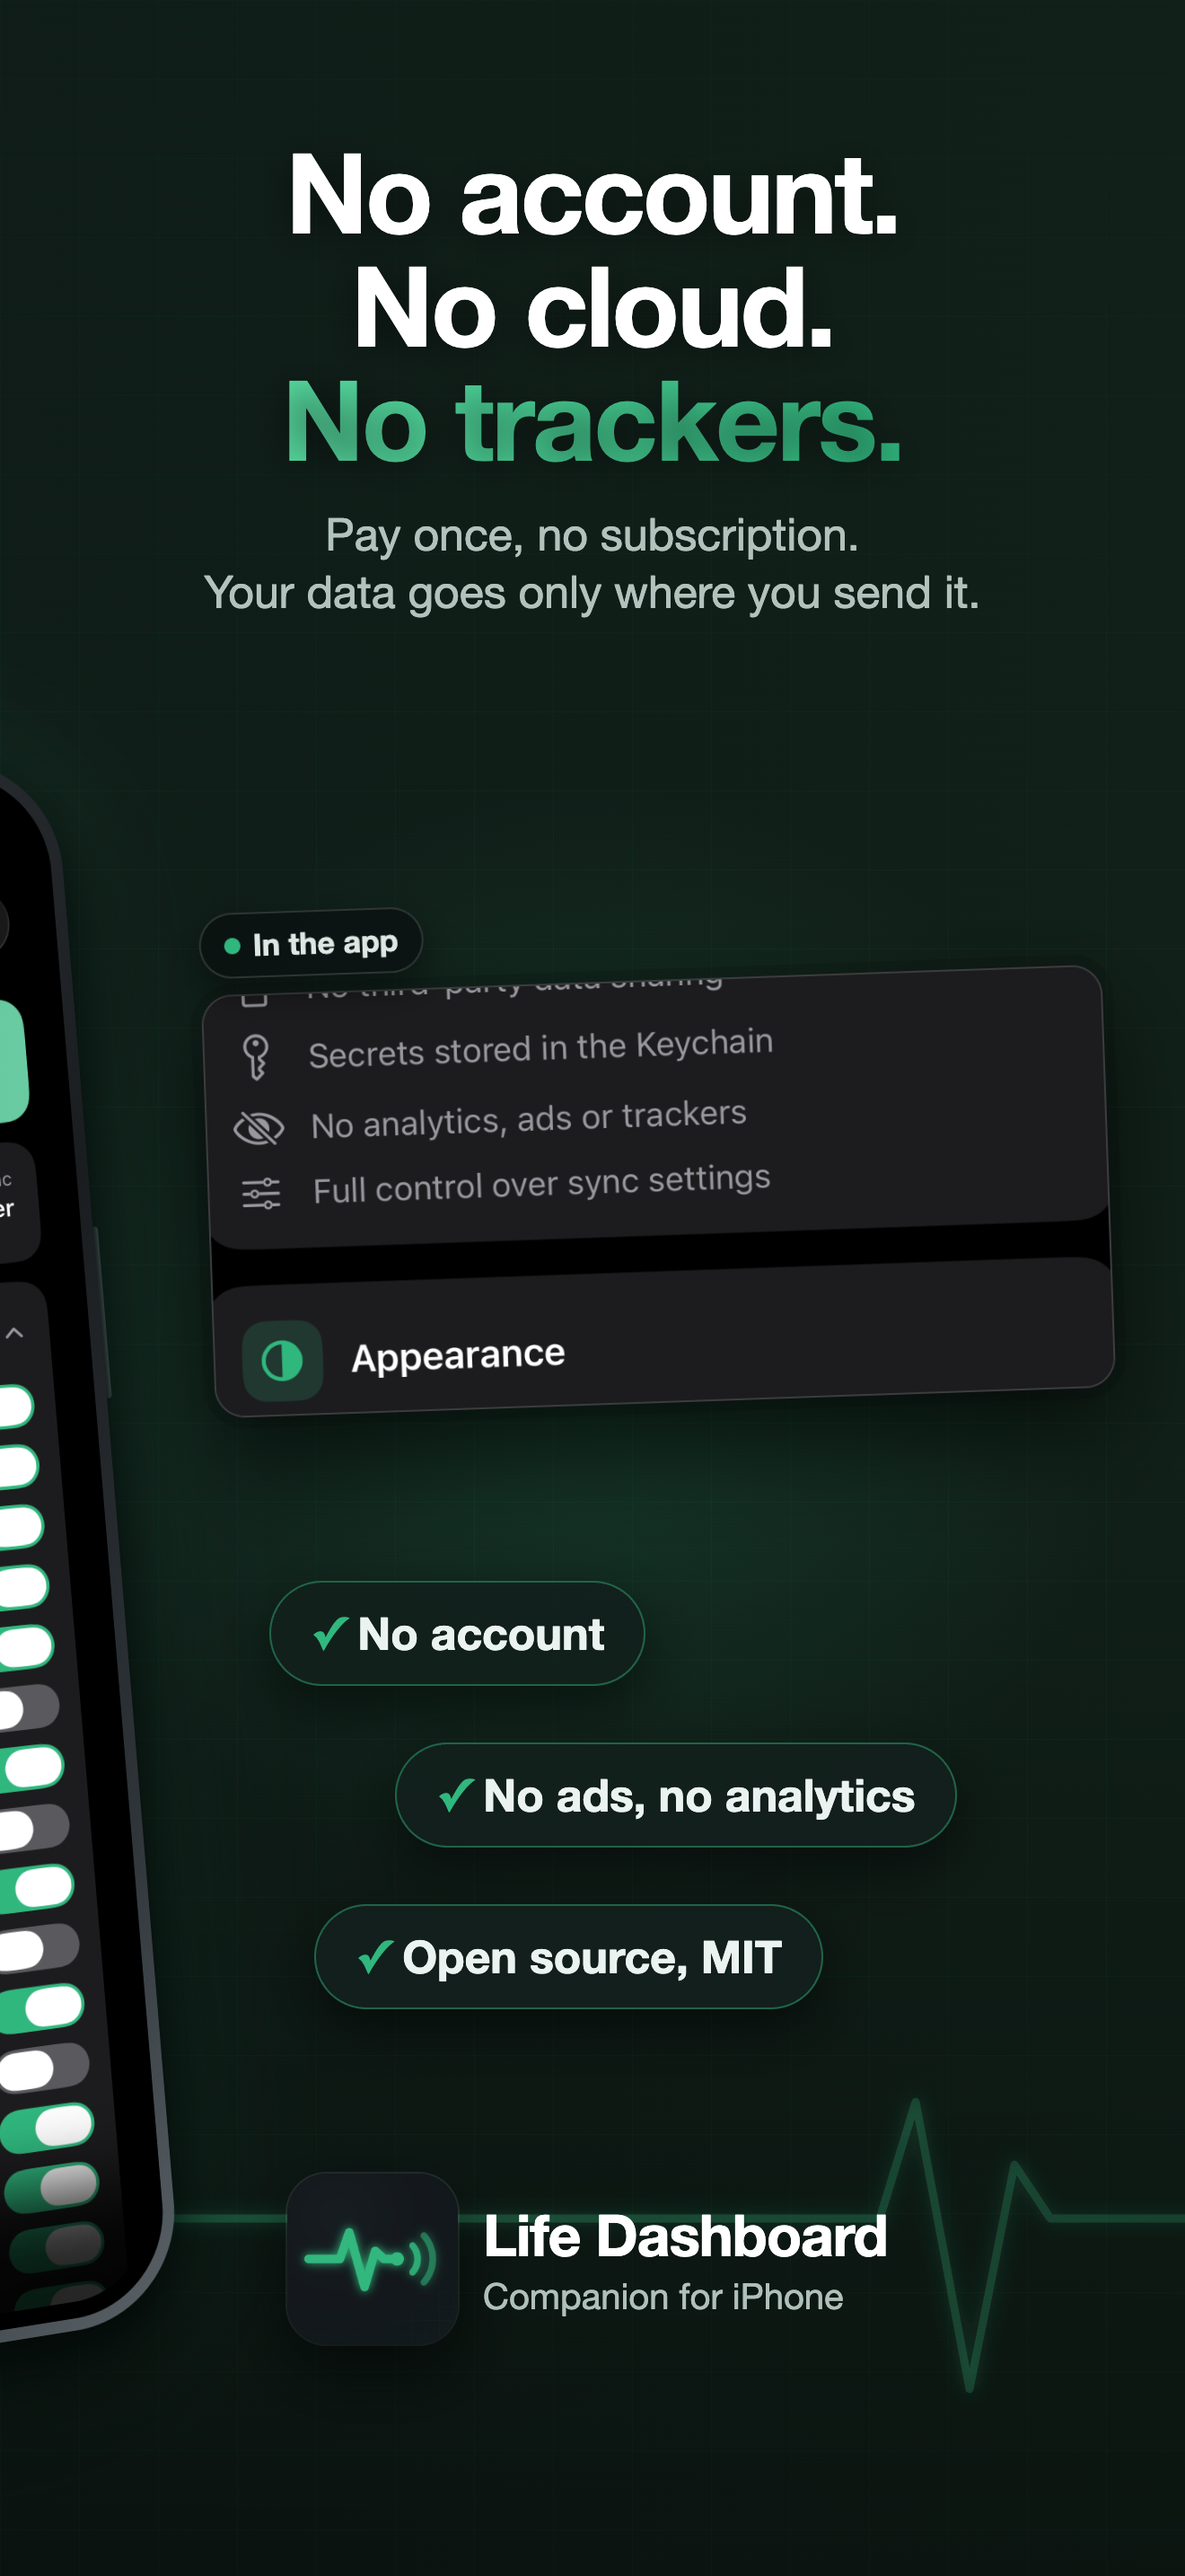
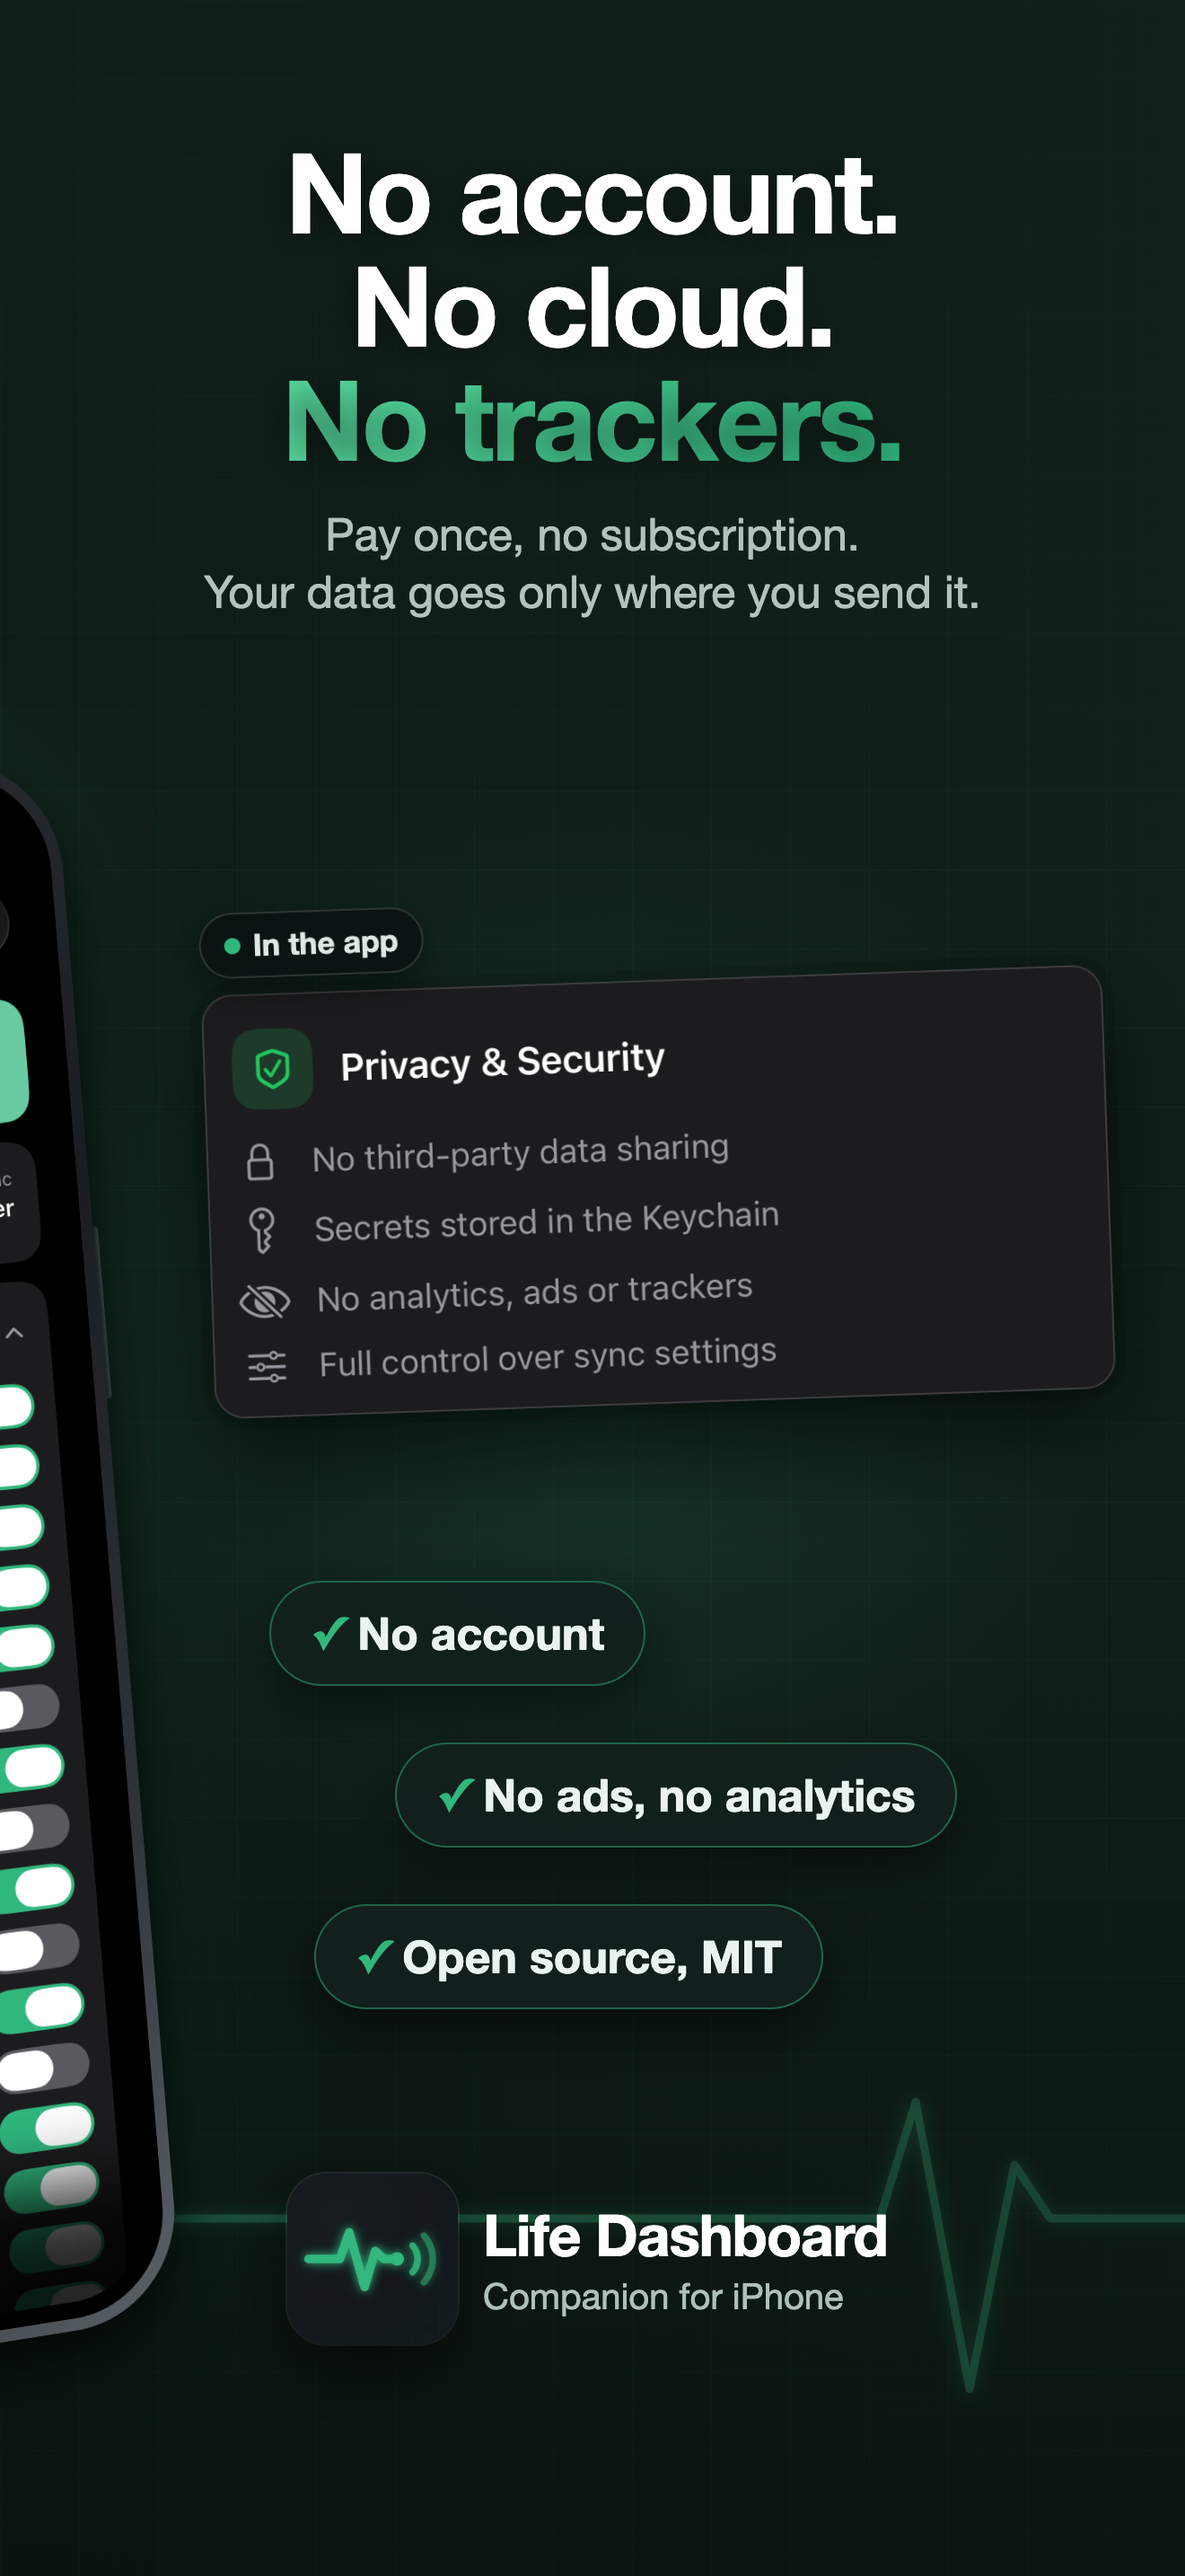
Store screenshots in Dutch and German (P1-29), the English privacy card crop fixed, and smaller renders in git (#98)

Changed region(s): [[0.1553, 0.3724, 0.9318, 0.5586]]

diff --git a/docs/brand/app-store/panorama.html b/docs/brand/app-store/panorama.html
@@ -4,6 +4,10 @@
   panels, 7920x2868, that docs/brand/app-store/render.sh renders whole (panorama-en.png) and
   per panel (en-1.png to en-6.png, panorama.html?panel=1 to ?panel=6).
 
+  ?lang=nl and ?lang=de render the Dutch and German set (nl-1.png, de-1.png and so on) from
+  raw/nl/ and raw/de/, with the captions and labels from TEXT below; English is the default.
+  The Home Assistant cards stay as they are: they come from the integration's English docs.
+
   One continuous background, a heartbeat line that runs through all six panels, and phones
   that lean over the edge into the next panel, so the row reads as one picture when swiping.
 
@@ -159,11 +163,84 @@
 </div>
 
 <script>
-const W = 1320, H = 2868, RAW = "raw/", HA = "ha/";
-// Rows and cards in the captures, [x, y, w, h] in capture pixels.
-const LOGROW_BACKFILL = [52, 1488, 1216, 176];   // logs.png: the year of backfill, delivered
-const LOGROW_MQTT = [52, 1668, 1216, 176];       // logs.png: an MQTT publish
-const PRIVACY_CARD = [60, 930, 1200, 560];       // about-privacy.png: Privacy & Security
+const params = new URLSearchParams(location.search);
+const LANG = ["nl", "de"].includes(params.get("lang")) ? params.get("lang") : "en";
+document.documentElement.lang = LANG;
+const W = 1320, H = 2868, RAW = LANG === "en" ? "raw/" : `raw/${LANG}/`, HA = "ha/";
+// Rows and cards in the captures, [x, y, w, h] in capture pixels. The rows move with the
+// language: in German the backfill row is taller, its badge wraps under the record count.
+const RECTS = {
+  en: {
+    LOGROW_BACKFILL: [52, 1488, 1216, 176],   // logs.png: the year of backfill, delivered
+    LOGROW_MQTT: [52, 1668, 1216, 176],       // logs.png: an MQTT publish
+    PRIVACY_CARD: [60, 698, 1200, 562],       // about-privacy.png: Privacy & Security (below Questions since 1.10.0)
+  },
+  nl: {
+    LOGROW_BACKFILL: [52, 1488, 1216, 176],
+    LOGROW_MQTT: [52, 1668, 1216, 176],
+    PRIVACY_CARD: [60, 618, 1200, 562],
+  },
+  de: {
+    LOGROW_BACKFILL: [52, 1488, 1216, 256],
+    LOGROW_MQTT: [52, 1749, 1216, 176],
+    PRIVACY_CARD: [60, 618, 1200, 562],
+  },
+};
+const { LOGROW_BACKFILL, LOGROW_MQTT, PRIVACY_CARD } = RECTS[LANG];
+
+// Every word on the panels, per language. Dutch says "je", German "du"; the app's own terms
+// from docs/localization.md (Apple Gezondheid, Aanvullen, Nachtragen, Datensätze).
+const TEXT = {
+  en: {
+    cap1: [`Your health data,<br><em>in Home Assistant</em>`, `Or on your own server, over MQTT or a webhook.`],
+    cap2: [`Pair with<br><em>one QR code</em>`, `Scan the code from the Life Dashboard integration. No account, no YAML.`],
+    cap3: [`All your history<br><em>in one go</em>`, `Backfill from 30 days to everything Apple Health has. In Home Assistant, each day lands on its own date.`],
+    backfill: "Backfill, all history",
+    cap4: [`Webhooks, signed.<br><em>MQTT, built in.</em>`, `Every address its own signing secret. Over MQTT, sensors set themselves up.`],
+    signed: "Signed",
+    cap5: [`Works with what<br><em>you already track</em>`, `Apple Watch, iPhone and the apps that write to the Health app.`],
+    types: "data types",
+    chips: ["Steps", "Sleep stages", "Heart rate &amp; HRV", "Workouts", "Weight", "Blood pressure", "VO2 max"],
+    cap6: [`No account.<br>No cloud.<br><em>No trackers.</em>`, `Pay once, no subscription.<br>Your data goes only where you send it.`],
+    inApp: "In the app",
+    pills: ["No account", "No ads, no analytics", "Open source, MIT"],
+    companion: "Companion for iPhone",
+  },
+  nl: {
+    cap1: [`Je gezondheidsdata<br><em>in Home Assistant</em>`, `Of op je eigen server, via MQTT of een webhook.`, 112],
+    cap2: [`Koppelen met<br><em>één QR-code</em>`, `Scan de code van de Life Dashboard-integratie. Geen account, geen YAML.`],
+    cap3: [`Al je geschiedenis<br><em>in één keer</em>`, `Vul 30 dagen aan, of alles wat in Apple Gezondheid staat. In Home Assistant komt elke dag op zijn eigen datum.`],
+    backfill: "Aanvullen, alles",
+    cap4: [`Webhooks, ondertekend.<br><em>MQTT, ingebouwd.</em>`, `Elk adres een eigen ondertekeningsgeheim. Via MQTT stellen sensoren zichzelf in.`],
+    signed: "Ondertekend",
+    signedX: 4680,
+    cap5: [`Werkt met wat je<br><em>al bijhoudt</em>`, `Apple Watch, iPhone en de apps die naar de Gezondheid-app schrijven.`],
+    types: "datatypes",
+    chips: ["Stappen", "Slaapfases", "Hartslag en HRV", "Work-outs", "Gewicht", "Bloeddruk", "VO2max"],
+    cap6: [`Geen account.<br>Geen cloud.<br><em>Geen trackers.</em>`, `Eenmalig betalen, geen abonnement.<br>Je data gaat alleen naar de plek die jij kiest.`],
+    inApp: "In de app",
+    pills: ["Geen account", "Geen reclame, geen analytics", "Open source, MIT"],
+    pillsShift: -110,
+    companion: "Companion voor iPhone",
+  },
+  de: {
+    cap1: [`Deine Gesundheitsdaten<br><em>in Home Assistant</em>`, `Oder auf deinem eigenen Server, per MQTT oder Webhook.`],
+    cap2: [`Koppeln mit<br><em>einem QR-Code</em>`, `Scanne den Code der Life-Dashboard-Integration. Kein Konto, kein YAML.`],
+    cap3: [`Dein ganzer Verlauf<br><em>auf einmal</em>`, `Trage 30 Tage oder alles nach, was Apple Health hat. In Home Assistant steht jeder Tag unter seinem eigenen Datum.`],
+    backfill: "Nachtragen, alles",
+    cap4: [`Webhooks, signiert.<br><em>MQTT, eingebaut.</em>`, `Jede Adresse mit eigenem Signaturgeheimnis. Per MQTT richten sich Sensoren selbst ein.`],
+    signed: "Signiert",
+    cap5: [`Passt zu allem,<br><em>was du schon misst</em>`, `Apple Watch, iPhone und die Apps, die in die Health-App schreiben.`],
+    types: "Datentypen",
+    chips: ["Schritte", "Schlafphasen", "Herzfrequenz &amp; HRV", "Trainings", "Gewicht", "Blutdruck", "VO2max"],
+    cap6: [`Kein Konto.<br>Keine Cloud.<br><em>Keine Tracker.</em>`, `Einmal zahlen, kein Abo.<br>Deine Daten landen nur da, wo du willst.`],
+    inApp: "In der App",
+    pills: ["Kein Konto", "Keine Werbung, keine Analysen", "Open Source, MIT"],
+    pillsShift: -130,
+    companion: "Companion für iPhone",
+  },
+};
+const T = TEXT[LANG];
 
 // The heartbeat: a flat line through every panel with a beat in the gaps between phones.
 (function () {
@@ -205,8 +282,10 @@ function float(html, x, y, { label, dot, rotate = 0, z = 5, pad = 0, bg } = {}) 
     `<div class="frame" style="padding:${pad}px;${bg ? `background:${bg}` : ""}">${html}</div></div>`;
 }
 
-function caption(n, h, p) {
-  return `<div class="cap" style="left:${(n - 1) * W + 80}px"><h1>${h}</h1><p>${p}</p></div>`;
+// size: a smaller headline, for a language whose first line would not fit at 124px.
+function caption(n, h, p, size) {
+  const style = size ? ` style="font-size:${size}px;letter-spacing:${Math.round(-3 * size / 124)}px"` : "";
+  return `<div class="cap" style="left:${(n - 1) * W + 80}px"><h1${style}>${h}</h1><p>${p}</p></div>`;
 }
 
 const tilt = (rz, ry = 0, rx = 0) => `perspective(3200px) rotateY(${ry}deg) rotateX(${rx}deg) rotate(${rz}deg)`;
@@ -215,8 +294,7 @@ const shield = `<svg width="92" height="92" viewBox="0 0 24 24" fill="none" stro
 const items = [];
 
 // 1. Home Assistant
-items.push(caption(1, `Your health data,<br><em>in Home Assistant</em>`,
-  `Or on your own server, over MQTT or a webhook.`));
+items.push(caption(1, ...T.cap1));
 items.push(phone(RAW + "health.png", 120, 830, 900, tilt(-6, 8)));
 items.push(float(
   `<div style="display:flex;flex-direction:column;gap:16px;background:#111;padding:16px">` +
@@ -226,50 +304,44 @@ items.push(float(
   680, 1420, { label: "Home Assistant", rotate: 3 }));
 
 // 2. Pairing
-items.push(caption(2, `Pair with<br><em>one QR code</em>`,
-  `Scan the code from the Life Dashboard integration. No account, no YAML.`));
+items.push(caption(2, ...T.cap2));
 items.push(phone(RAW + "setup-destination.png", 1690, 830, 860, tilt(4, -12)));
 items.push(float(crop(HA + "pairing.png", 1160, [62, 54, 586, 586], 540),
   1390, 1560, { label: "Home Assistant", rotate: -6, pad: 26, bg: "#1C1C1C" }));
 
 // 3. All your history
-items.push(caption(3, `All your history<br><em>in one go</em>`,
-  `Backfill from 30 days to everything Apple Health has. In Home Assistant, each day lands on its own date.`));
+items.push(caption(3, ...T.cap3));
 items.push(phone(RAW + "logs.png", 2530, 860, 880, tilt(7, -6), 3));
 items.push(float(crop(RAW + "logs.png", 1320, LOGROW_BACKFILL, 1000),
-  2925, 1560, { label: "Backfill, all history", dot: "#30B77E", rotate: -3, z: 6 }));
+  2925, 1560, { label: T.backfill, dot: "#30B77E", rotate: -3, z: 6 }));
 items.push(float(crop(HA + "statistics.png", 2048, [33, 8, 982, 614], 860),
   3065, 1980, { label: "Home Assistant", rotate: 2 }));
 
 // 4. Webhooks and MQTT
-items.push(caption(4, `Webhooks, signed.<br><em>MQTT, built in.</em>`,
-  `Every address its own signing secret. Over MQTT, sensors set themselves up.`));
+items.push(caption(4, ...T.cap4));
 items.push(phone(RAW + "webhook.png", 4250, 830, 900, tilt(-5, 10)));
-items.push(`<div class="badge" style="left:4800px;top:1530px;transform:rotate(-4deg);z-index:6">${shield}<div><b>Signed</b><small>HMAC-SHA256</small></div></div>`);
+items.push(`<div class="badge" style="left:${T.signedX || 4800}px;top:1530px;transform:rotate(-4deg);z-index:6">${shield}<div><b>${T.signed}</b><small>HMAC-SHA256</small></div></div>`);
 items.push(float(crop(RAW + "logs.png", 1320, LOGROW_MQTT, 980),
   3995, 2330, { label: "MQTT", dot: "#30B77E", rotate: 3, z: 6 }));
 
 // 5. Sources
-items.push(caption(5, `Works with what<br><em>you already track</em>`,
-  `Apple Watch, iPhone and the apps that write to the Health app.`));
+items.push(caption(5, ...T.cap5));
 items.push(phone(RAW + "types.png", 5880, 860, 860, tilt(-5, 12), 3));
-items.push(`<div class="stat" style="left:5330px;top:1000px;transform:rotate(-4deg);z-index:6"><b>28</b><span>data types</span></div>`);
-const chips = ["Steps", "Sleep stages", "Heart rate &amp; HRV", "Workouts", "Weight", "Blood pressure", "VO2 max"];
-chips.forEach((t, n) => items.push(`<div class="chip" style="left:${5330 + (n % 2) * 40}px;top:${1460 + n * 160}px;z-index:6"><span>&#9679;</span>${t}</div>`));
+items.push(`<div class="stat" style="left:5330px;top:1000px;transform:rotate(-4deg);z-index:6"><b>28</b><span>${T.types}</span></div>`);
+T.chips.forEach((t, n) => items.push(`<div class="chip" style="left:${5330 + (n % 2) * 40}px;top:${1460 + n * 160}px;z-index:6"><span>&#9679;</span>${t}</div>`));
 
 // 6. Privacy
-items.push(caption(6, `No account.<br>No cloud.<br><em>No trackers.</em>`,
-  `Pay once, no subscription.<br>Your data goes only where you send it.`));
+items.push(caption(6, ...T.cap6));
 items.push(float(crop(RAW + "about-privacy.png", 1320, PRIVACY_CARD, 1000),
-  6830, 1000, { label: "In the app", dot: "#30B77E", rotate: -2, z: 6 }));
-const pills = [["No account", 6900, 1760], ["No ads, no analytics", 7040, 1940], ["Open source, MIT", 6950, 2120]];
+  6830, 1000, { label: T.inApp, dot: "#30B77E", rotate: -2, z: 6 }));
+const pills = [[T.pills[0], 6900, 1760], [T.pills[1], 7040 + (T.pillsShift || 0), 1940], [T.pills[2], 6950, 2120]];
 for (const [t, x, y] of pills) items.push(`<div class="chip big" style="left:${x}px;top:${y}px;z-index:6"><span>&#10003;</span>${t}</div>`);
-items.push(`<div class="sign" style="left:6920px;top:2420px;z-index:6"><img src="icon.png" alt=""><div><b>Life Dashboard</b><span>Companion for iPhone</span></div></div>`);
+items.push(`<div class="sign" style="left:6920px;top:2420px;z-index:6"><img src="icon.png" alt=""><div><b>Life Dashboard</b><span>${T.companion}</span></div></div>`);
 
 document.getElementById("items").innerHTML = items.join("");
 
 // ?panel=n shows one 1320-wide panel of the panorama.
-const panel = +(new URLSearchParams(location.search).get("panel") || 0);
+const panel = +(params.get("panel") || 0);
 if (panel) {
   document.documentElement.style.width = document.body.style.width = W + "px";
   document.getElementById("stage").style.transform = `translateX(${-(panel - 1) * W}px)`;

diff --git a/docs/brand/app-store/contact-sheet.html b/docs/brand/app-store/contact-sheet.html
@@ -1,6 +1,7 @@
 <!DOCTYPE html>
 <!-- The six rendered panels (en-1.png to en-6.png) side by side, for a quick review. render.sh
-     renders it to contact-sheet.png at 2196x797. -->
+     renders it to contact-sheet.png at 2196x797, and with ?lang=nl or ?lang=de the Dutch and
+     German panels to contact-sheet-nl.png and contact-sheet-de.png. -->
 <html>
 <head>
 <meta charset="utf-8">
@@ -17,5 +18,11 @@
   <img src="en-1.png" alt=""><img src="en-2.png" alt=""><img src="en-3.png" alt="">
   <img src="en-4.png" alt=""><img src="en-5.png" alt=""><img src="en-6.png" alt="">
 </div>
+<script>
+const lang = new URLSearchParams(location.search).get("lang");
+if (["nl", "de"].includes(lang)) {
+  document.querySelectorAll("img").forEach((img, n) => { img.src = `${lang}-${n + 1}.png`; });
+}
+</script>
 </body>
 </html>
